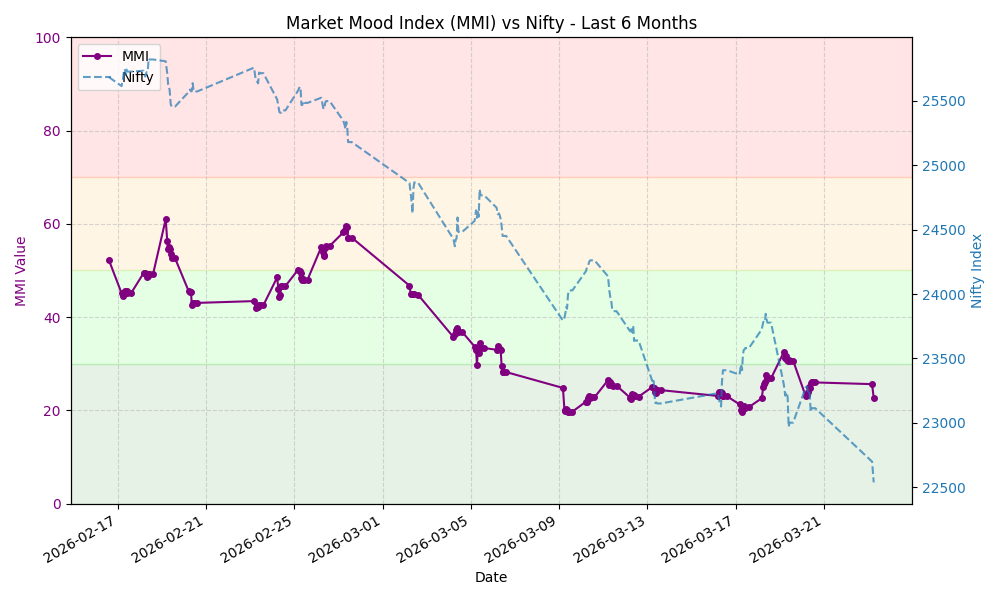
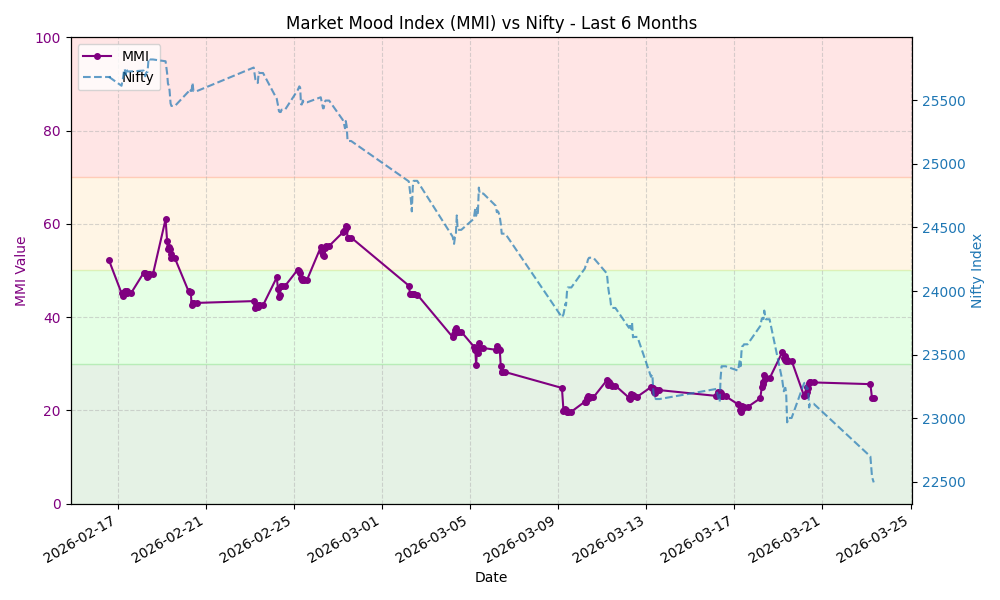
Update MMI data and chart

diff --git a/README.md b/README.md
@@ -7,8 +7,8 @@ This repository automatically fetches the MMI value, stores the history, and gen
 
 ## Latest MMI Value
 
-**22.60** - **Extreme Fear**
-<small>Last Updated: 2026-03-23 06:00 UTC</small>
+**22.71** - **Extreme Fear**
+<small>Last Updated: 2026-03-23 07:51 UTC</small>
 
 ## MMI Trend (Last 30 Days)
 
